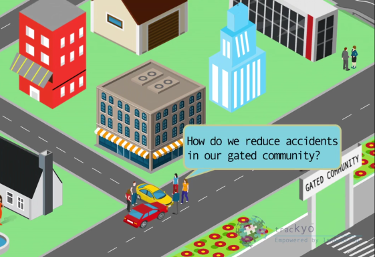
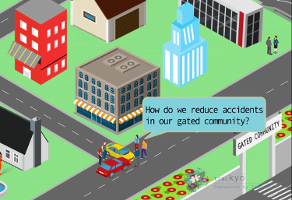
Optimized images

diff --git a/index.html b/index.html
@@ -444,7 +444,7 @@ gtag('config', 'UA-56286897-6');
           </div>
           <div class="col-sm-12 col-md-3">
             <div class="videosElement">
-              <img src="media/videos/p2b.png" class="pop" data-type="youtube" data-id="hah1ET9hQoE" data-autoplay='true'>
+              <img src="media/videos/p1b.png" class="pop" data-type="youtube" data-id="hah1ET9hQoE" data-autoplay='true'>
             </div>
           </div>
           <div class="col-sm-12 col-md-3">
